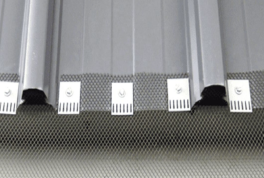
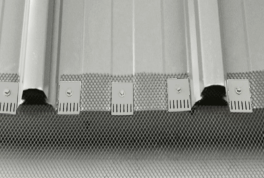
changed image

diff --git a/src/components/GuardSolution/index.js b/src/components/GuardSolution/index.js
@@ -2,7 +2,7 @@ import GuardSolutionCard from "./GuardSolutionCard";
 
 import CorCorrugatedRoof from "../../assets/corrugated-roof.png";
 import TileRoof from "../../assets/tile-roof.png";
-import FlatRoofDeck from "../../assets/flat-roof-deck.png";
+import FlatRoofDeck from "../../assets/flat-roof-trim-deck.jpeg";
 import FlatRoofKliplok from "../../assets/flat-roof-kliplok.png";
 
 import "./guard-solutions.css";

diff --git a/src/components/GuardSolution/GuardSolutionCard.js b/src/components/GuardSolution/GuardSolutionCard.js
@@ -3,7 +3,7 @@ import Link from '@mui/material/Link';
 const GuardSolutionCard = ({ image, heading }) => {
   return (
     <div className="guardCard">
-      <img src={image} alt={`${heading}`} />
+      <img src={image} alt={`${heading}`} style={{width: '264px', height: '178px'}}/>
       <Link href="#consForm" className="customLink">
         <p className="guardCardHeading">{heading}</p>
       </Link>
